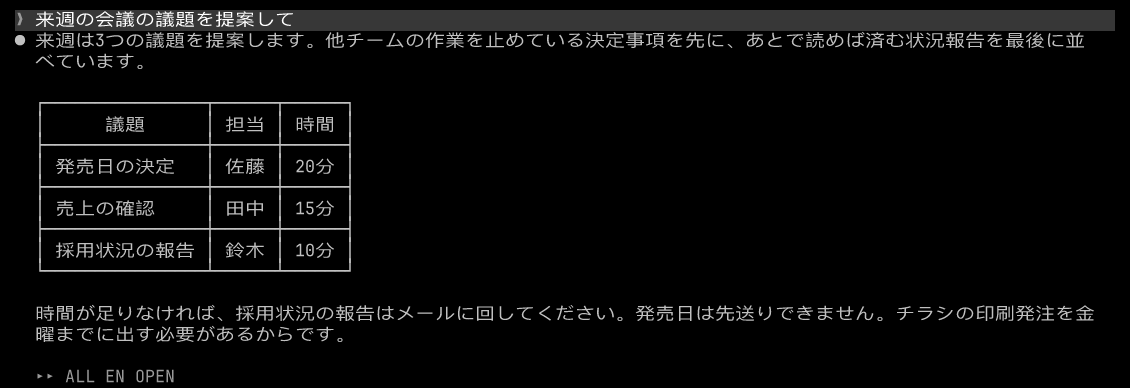
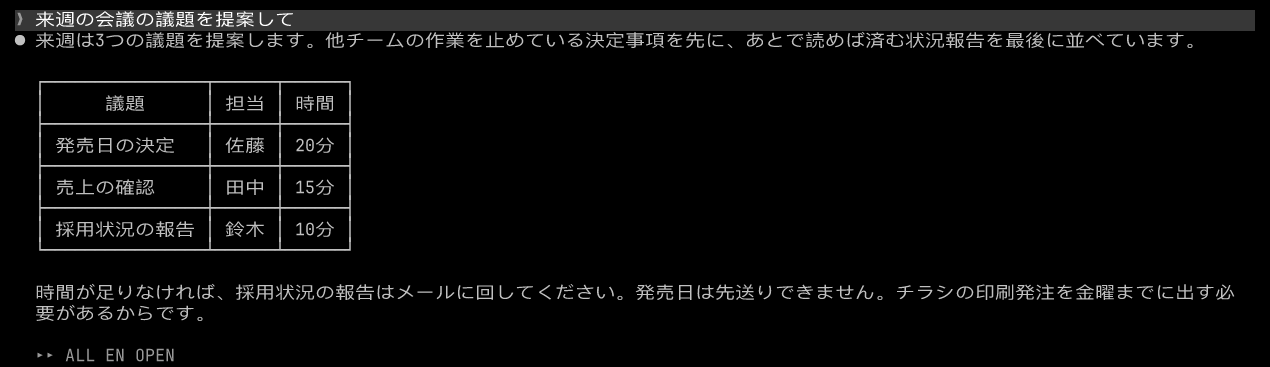
Record the levels and the settings again, with tables side by side
Claude-Session: https://claude.ai/code/session_01GgggXorrAqZjMZRfUjX4Vi

diff --git a/screen/record.ts b/screen/record.ts
@@ -260,7 +260,8 @@ for (const words of SETS.filter(w => !onlySet || onlySet === w.name)) {
   // 3. The four levels, the same question at each: stills, so that they can be compared. The window is tall
   // enough for the whole exchange, and the picture is cut from the question to the last row of the reply.
   for (const n of wants('levels') ? ['1', '2', '3', '4'] : []) {
-    const s = await open({ cols: 110, rows: 70, options: { ...options, readingLevel: n }, script: n === '1' || n === '2' ? native : learned })
+    // Wide enough for the widest table of any set to stand beside its translation.
+    const s = await open({ cols: 124, rows: 70, options: { ...options, readingLevel: n }, script: n === '1' || n === '2' ? native : learned })
     await s.type(w.asked)
     await s.waitFor(preview)
     await s.press('Enter')
